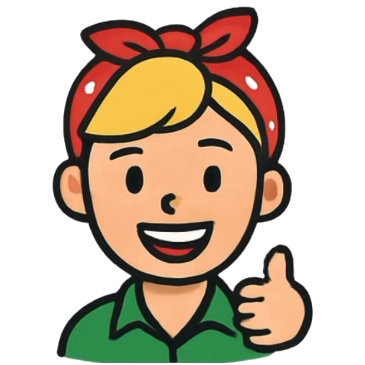
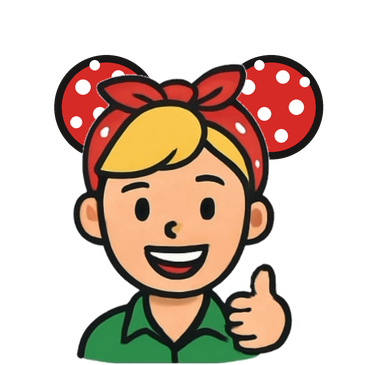
Give Bis polka-dot park ears to match her bandana
Claude-Session: https://claude.ai/code/session_011XPjN4JHJbjTbiA4cyU9EL

diff --git a/src/components/bis.tsx b/src/components/bis.tsx
@@ -5,7 +5,7 @@ import { Txt } from '@/components/ui';
 import { BRAND } from '@/lib/brand';
 import { colors } from '@/theme';
 
-/** Bis, the Bis Bytes mascot, from the Bis Bytes artwork. */
+/** Bis, the Bis Bytes mascot, from the Bis Bytes artwork, in polka-dot park ears. */
 export function Bis({ size = 64 }: { size?: number }) {
   return (
     <Image
